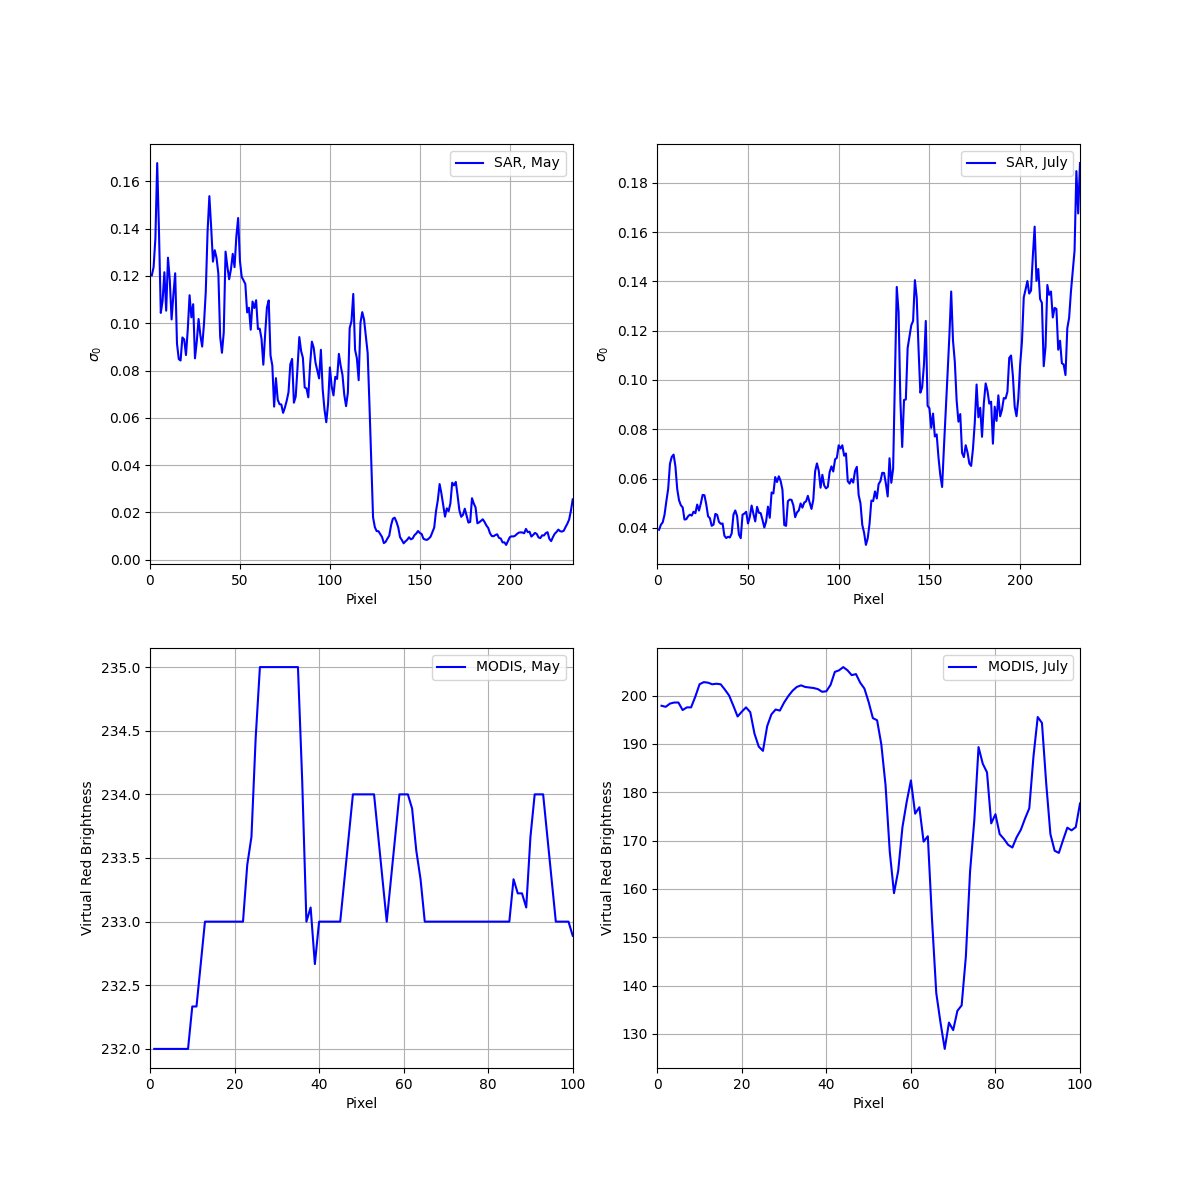
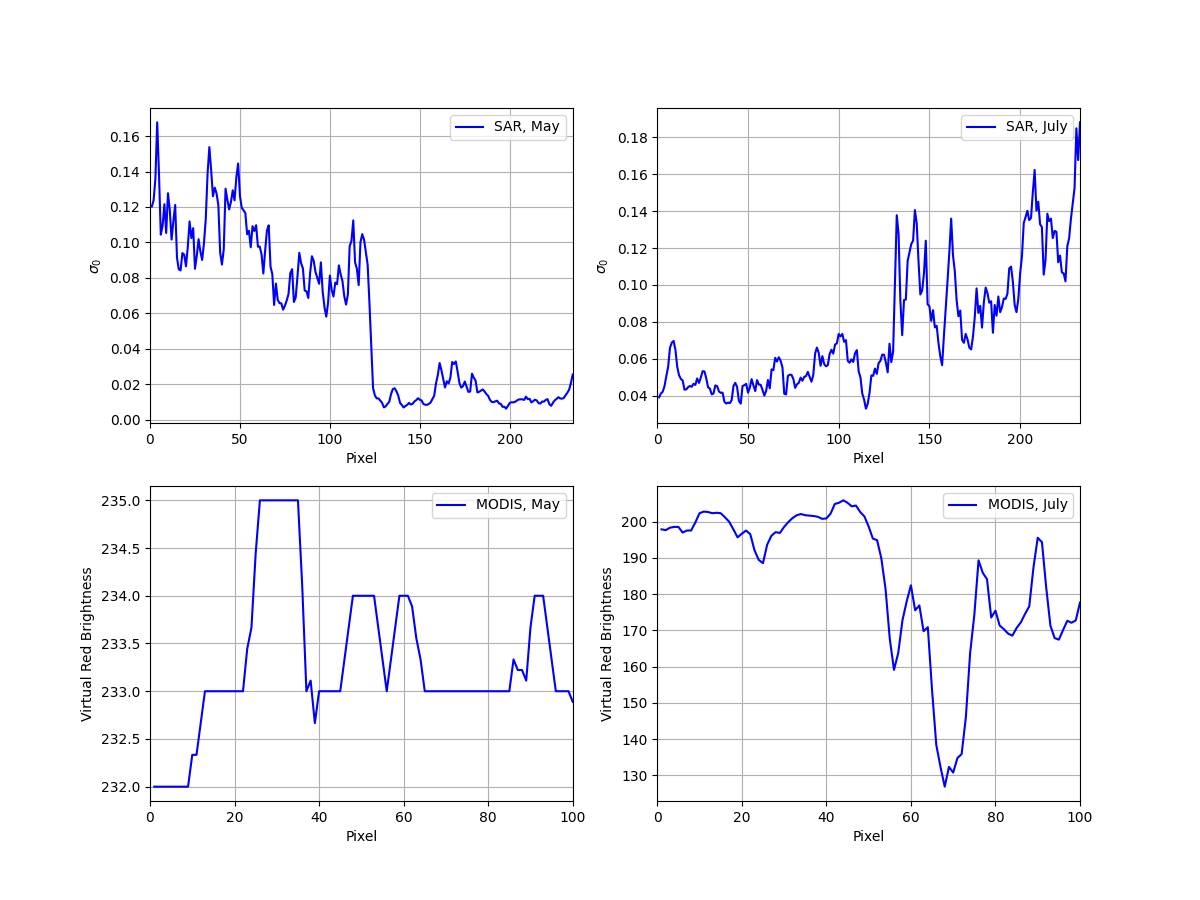
changed fig size

diff --git a/assignment6/task6.py b/assignment6/task6.py
@@ -7,7 +7,7 @@ df_sar_july = pd.read_csv("sar_july.csv", delim_whitespace=True)
 df_modis_may = pd.read_csv("modis_may.csv", delim_whitespace=True)
 df_modis_july = pd.read_csv("modis_july.csv", delim_whitespace=True)
 
-fig, ax = plt.subplots(nrows=2, ncols=2, figsize=(12,12))
+fig, ax = plt.subplots(nrows=2, ncols=2, figsize=(12,9))
 ax[0,0].plot(df_sar_may["pixel_no"], df_sar_may["mean"], color="blue", label="SAR, May")
 ax[0,0].set_xlabel("Pixel")
 ax[0,0].set_ylabel(r"$\sigma_0$")
